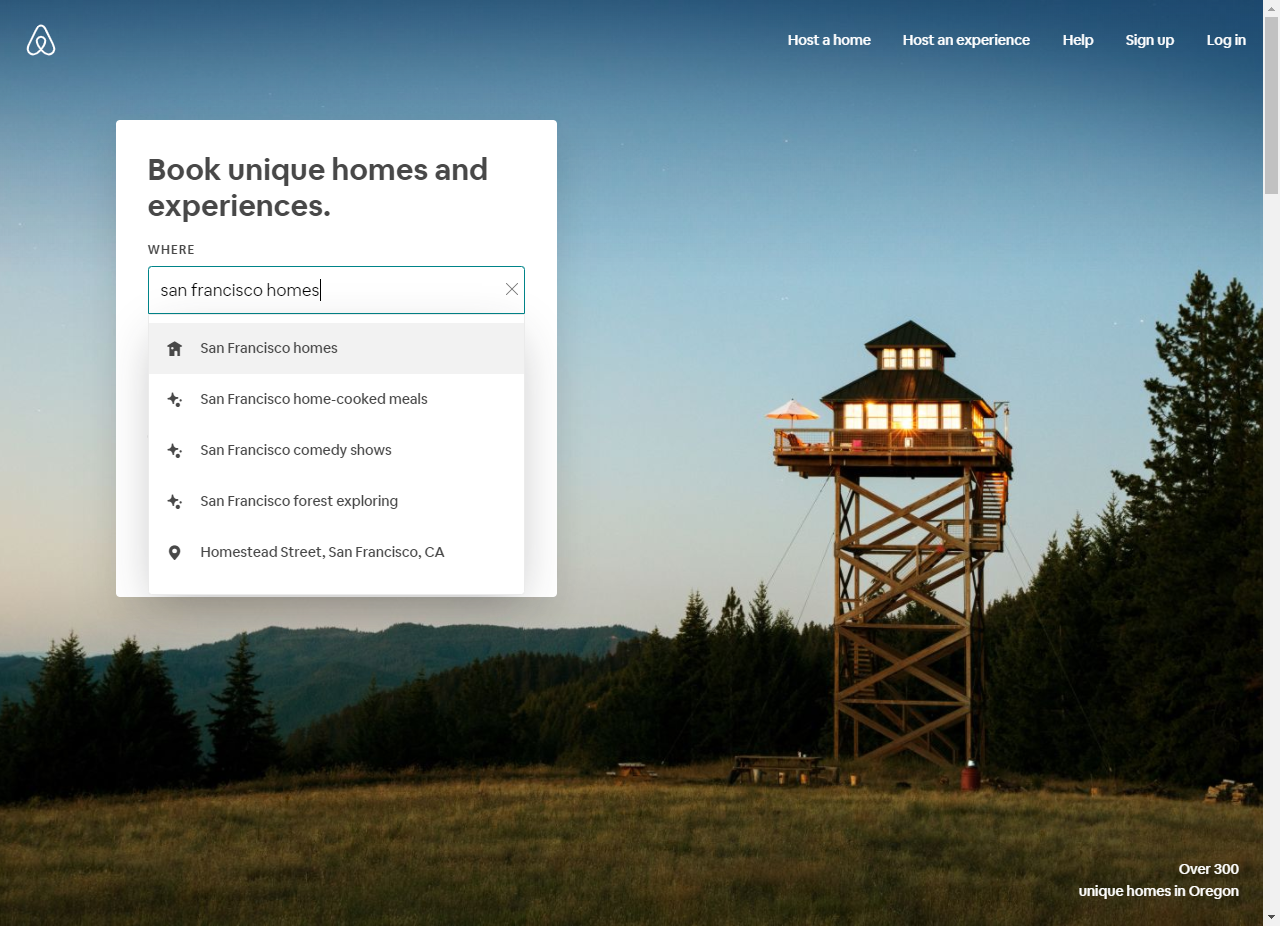
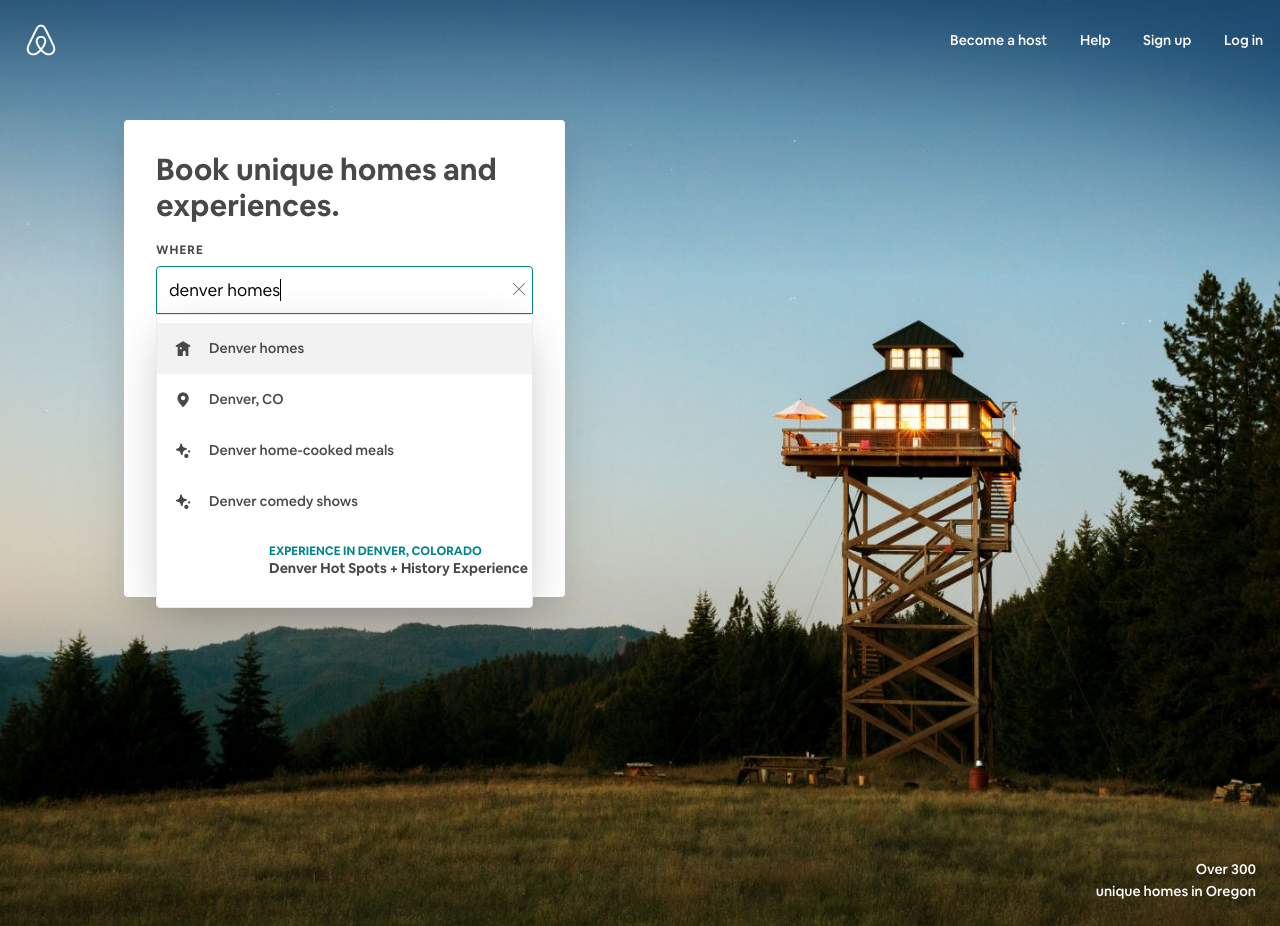
Scraper working -- moving on to database implementation

diff --git a/scraperHelpers.js b/scraperHelpers.js
@@ -6,7 +6,8 @@ exports.plus = {
   size: '._j0jilw ._g86r3e ._tw4pe52',
   rating: 'button span._rs3rozr',
   reviews: 'button span._1m8bb6v',
-  map: '[href*="maps?"]'
+  map: '[href*="maps?"]',
+  image: '._a5xa5nk ._h92vd7'
 }
 
 exports.normal = {
@@ -16,7 +17,8 @@ exports.normal = {
   size: '._n5lh69r ._36rlri ._czm8crp',
   rating: 'button span._rs3rozr',
   reviews: '._17erhr0e ._vy3ibx ._l0ao8q div div',
-  map: '[href*="maps?"]'
+  map: '[href*="maps?"]',
+  image: '._1opbq4k4 ._uttz43'
 };
 
 /* Scrapes everything we need from a listing page. */
@@ -32,23 +34,39 @@ exports.getListingInfo = async function(page, type) {
     };
 
     const title = document.querySelector(type.title).attributes[1].textContent.split(' - ')[0];
-    const price = document.querySelector(type.price).innerText;
+    const price = parseInt(document.querySelector(type.price).innerText.substring(1));
     const mapString = document.querySelector(type.map).href;
     const coordinates = parseCoordinates(mapString);
     const size = Array.from(document.querySelectorAll(type.size)).map( metric => metric.innerText );
-    const rating = document.querySelector(type.rating).attributes[1].textContent.split(' ')[1];
-  
-    const reviews = (() => {
+
+    /* For edge cases where index 1 in array is not rating,
+    use 5 stars (sloppy, but this is MVP...) */
+    const rating = parseFloat(document.querySelector(type.rating).attributes[1].textContent.split(' ')[1]) || 5;
+
+    const image = (() => {
       if (type.listing === 'plus') {
-        return document.querySelector(type.reviews).innerText.split(' ')[0];
+        let url = document.querySelector(type.image).attributes[1].value;
+        let start = url.indexOf('(') + 1;
+        let end = url.indexOf('?');
+        return url.substring(start, end);
       }
       if (type.listing === 'normal') {
-        return document.querySelectorAll(type.reviews)[1].attributes[2].value;
+        let url = document.querySelectorAll(type.image)[0].src;
+        return url.substring(0, url.indexOf('?'));
       }
     })();
-  
+
+    const reviews = (() => {
+      if (type.listing === 'plus') {
+        return parseInt(document.querySelector(type.reviews).innerText.split(' ')[0]);
+      }
+      if (type.listing === 'normal') {
+        return parseInt(document.querySelectorAll(type.reviews)[1].attributes[2].value);
+      }
+    })();
+
     size.splice(4);
-  
-    return { title, price, coordinates, size, rating, reviews }
+
+    return { title, price, coordinates, size, rating, reviews, image }
   }, type);
 }

diff --git a/scraper.js b/scraper.js
@@ -2,13 +2,12 @@ const puppeteer = require('puppeteer');
 const baseUrl = 'https://www.airbnb.com/rooms/';
 const { getListingInfo, plus, normal } = require('./scraperHelpers.js');
 
-(async () => {
+exports.scraper = async (city) => {
 
   /* Instantiate a browser, headless or otherwise.
   Setting headless to false is a great way to debug! */
   const browser = await puppeteer.launch({
-    headless: false,
-    args: ['--no-sandbox', '--disable-setuid-sandbox'],
+    args: ['--no-sandbox', '--disable-setuid-sandbox', '--lang=en-US'],
   });
 
   const page = await browser.newPage();
@@ -18,7 +17,7 @@ const { getListingInfo, plus, normal } = require('./scraperHelpers.js');
 
   /* Enters the search input, clicks the search button, and waits... */
   const searchInput = 'div ._up0kwni';
-  await page.type(searchInput, "san francisco homes");
+  await page.type(searchInput, `${city} homes`);
   await page.screenshot({path: 'query.png'});
   await page.keyboard.press('Enter');
   const searchButton = 'button ._ftj2sg4'
@@ -48,10 +47,13 @@ const { getListingInfo, plus, normal } = require('./scraperHelpers.js');
     /* Scrape the listing! */
     const listingInfo = await getListingInfo(page, type);
 
+    /* Add the url and Airbnb ID to the listingInfo object. */
+    listingInfo.url = url;
+    listingInfo.airbnbId = parseInt(listings[i]);
+
     console.log(listingInfo);
     results.push(listingInfo);
-  }
-  console.log(results);
+  };
   await browser.close();
-  
-})();
+  return results;
+};
